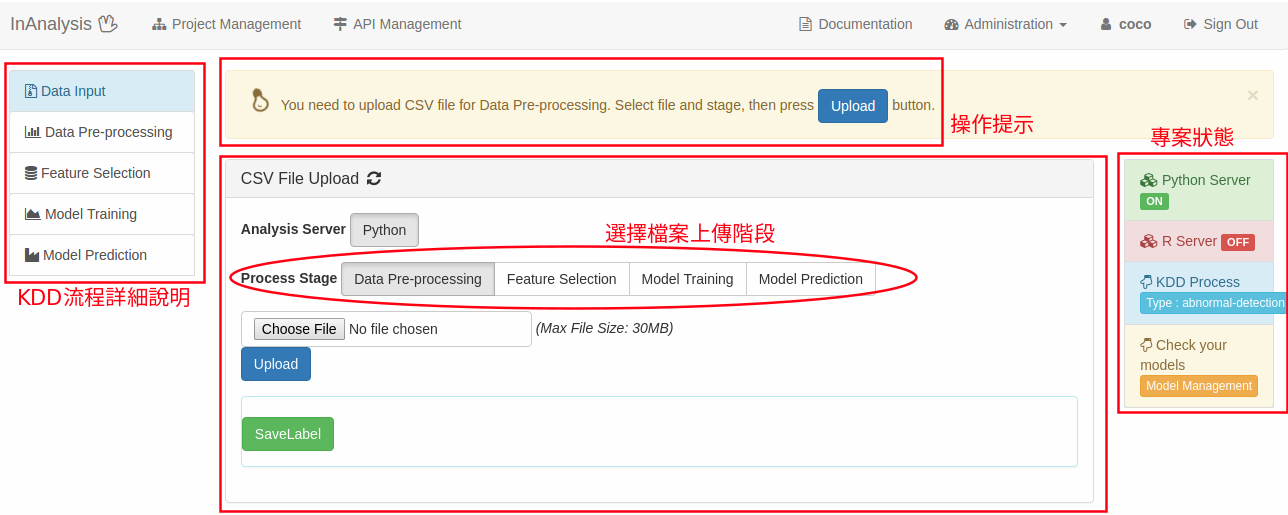
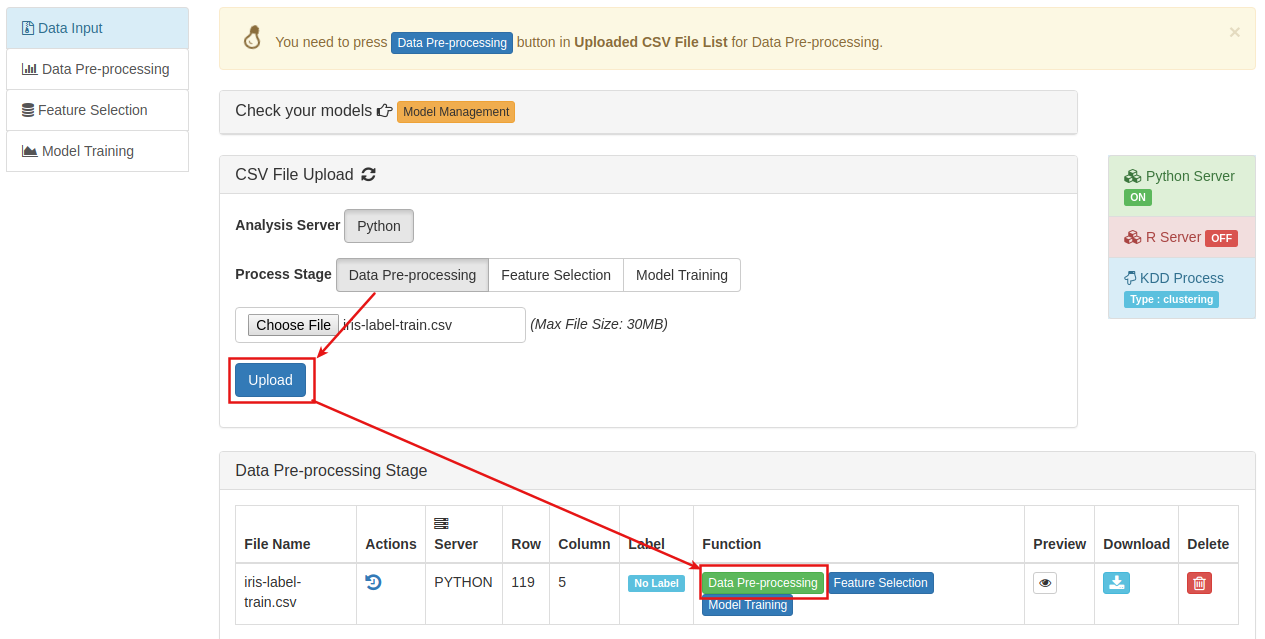
update clustering

Changed region(s): [[0.0, 0.0, 1.0, 1.0], [0.3391, 0.901, 0.4625, 0.932], [0.9249, 0.0311, 0.9866, 0.0621]]

diff --git a/clustering.html b/clustering.html
@@ -58,29 +58,44 @@ layout: default
 
                 <h2 class="section-heading">模型訓練流程</h2>
                 <h4>
-                    0.Data Input
+                    0.Create Project and Data Input
                 </h4>
+                <p>建立Clustering專案</p>
+                <img class="img-fluid" src="img/demo/abnormal/project.png" alt="">
+                <span class="caption text-muted">Project Management： Select Project Type</span>
                 <p>檔案上傳</p>
                 <img class="img-fluid" src="img/demo/abnormal/data_input.png" alt="">
-                <span class="caption text-muted">Data Upload： Select Process Stage</span>
-                <img class="img-fluid" src="img/demo/abnormal/data_input2.png" alt="">
-                <span class="caption text-muted">Data Upload： Select Function</span>
+                <span class="caption text-muted">Data Upload： Select Process Stage and Upload</span>
                 <h4>
                     1.Data Pre-process
                 </h4>
-                <p>從Function欄位中, 選擇Data Pre-processing按鈕, 可進行資料預處理(Pre-process)</p>
-                <img class="img-fluid" src="img/demo/abnormal/data_step1.png" alt="">
-                <span class="caption text-muted">Data Pre-view</span>
+                <p>從Function欄位中, 選擇Data Pre-processing按鈕, 進行資料預處理(Pre-process)</p>
+                <img class="img-fluid" src="img/demo/abnormal/preprocess_01.png" alt="">
+                <p>選擇資料要進行哪些處理並預覽</p>
+                <img class="img-fluid" src="img/demo/abnormal/preprocess_02.png" alt="">
+                <p>儲存處理過的資料</p>
+                <img class="img-fluid" src="img/demo/abnormal/preprocess_03.png" alt="">
+                <span class="caption text-muted">Data Pre-process</span>
                 <h4>
                     2.Feature Selection
                 </h4>
                 <p>利用Pearson Correlation演算法計算各個Feature間的關係程度,以作為選擇Feature的參考</p>
-                <img class="img-fluid" src="img/demo/abnormal/Feature_2.png" alt="">
-                <span class="caption text-muted">Calculate Pearson Correlation</span>
-                <img class="img-fluid" src="img/demo/abnormal/Feature_3.png" alt="">
+                <img class="img-fluid" src="img/demo/abnormal/feature_01.png" alt="">
+                <span class="caption text-muted">Feature Selection</span>
+                <img class="img-fluid" src="img/demo/abnormal/feature_02.png" alt="">
                 <span class="caption text-muted">Show Feature Weight Matrix</span>
-                <img class="img-fluid" src="img/demo/abnormal/Feature_4.png" alt="">
+                <img class="img-fluid" src="img/demo/abnormal/feature_03.png" alt="">
                 <span class="caption text-muted">Select Feature and Save</span>
+                <h4>
+                    3.Model Training
+                </h4>
+                <p>利用上傳的資料進行模型訓練</p>
+                <img class="img-fluid" src="img/demo/abnormal/train_01.png" alt="">
+                <span class="caption text-muted">Model Training</span>
+                <img class="img-fluid" src="img/demo/abnormal/train_02.png" alt="">
+                <span class="caption text-muted">Set Parameters</span>
+                <img class="img-fluid" src="img/demo/abnormal/train_03.png" alt="">
+                <span class="caption text-muted">Preview Model</span>
                 <hr>
                 <button type="button" class="btn btn-primary btn-lg btn-block"
                         onclick="window.open('http://140.112.26.236:8008','_blank')">
